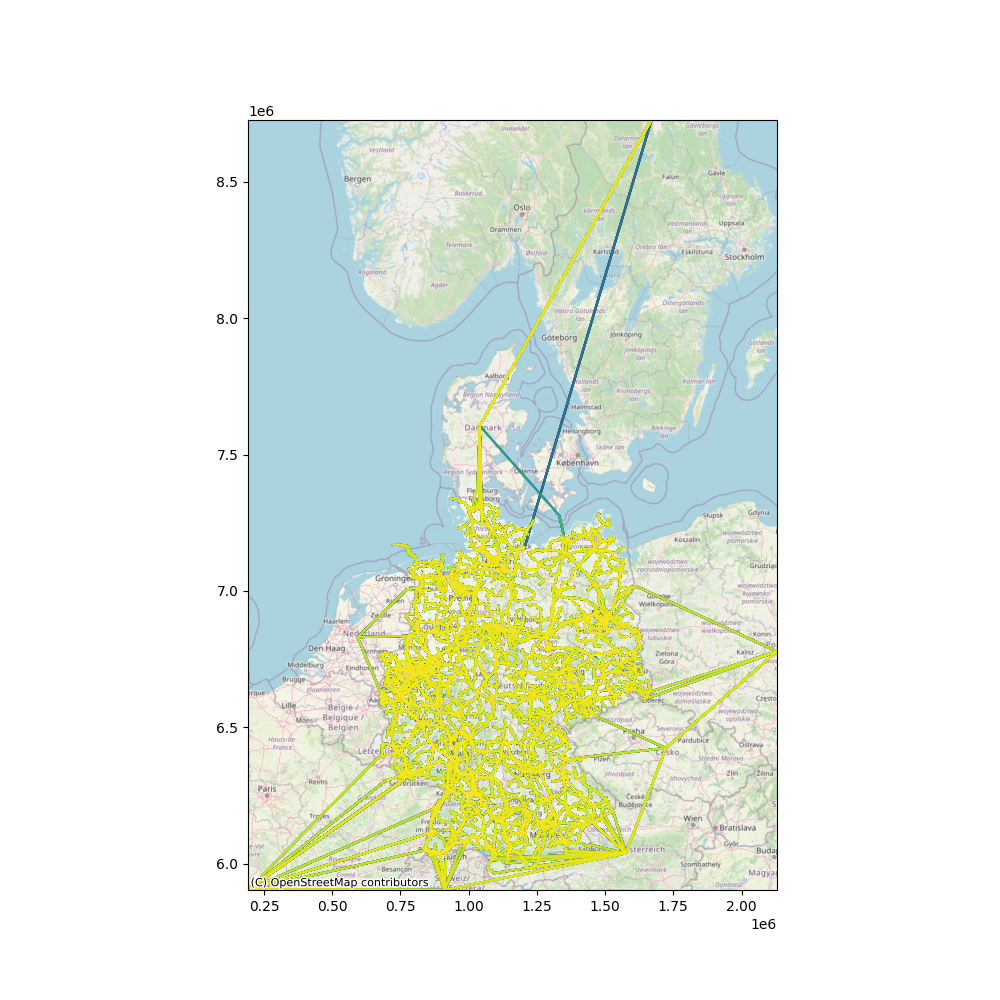
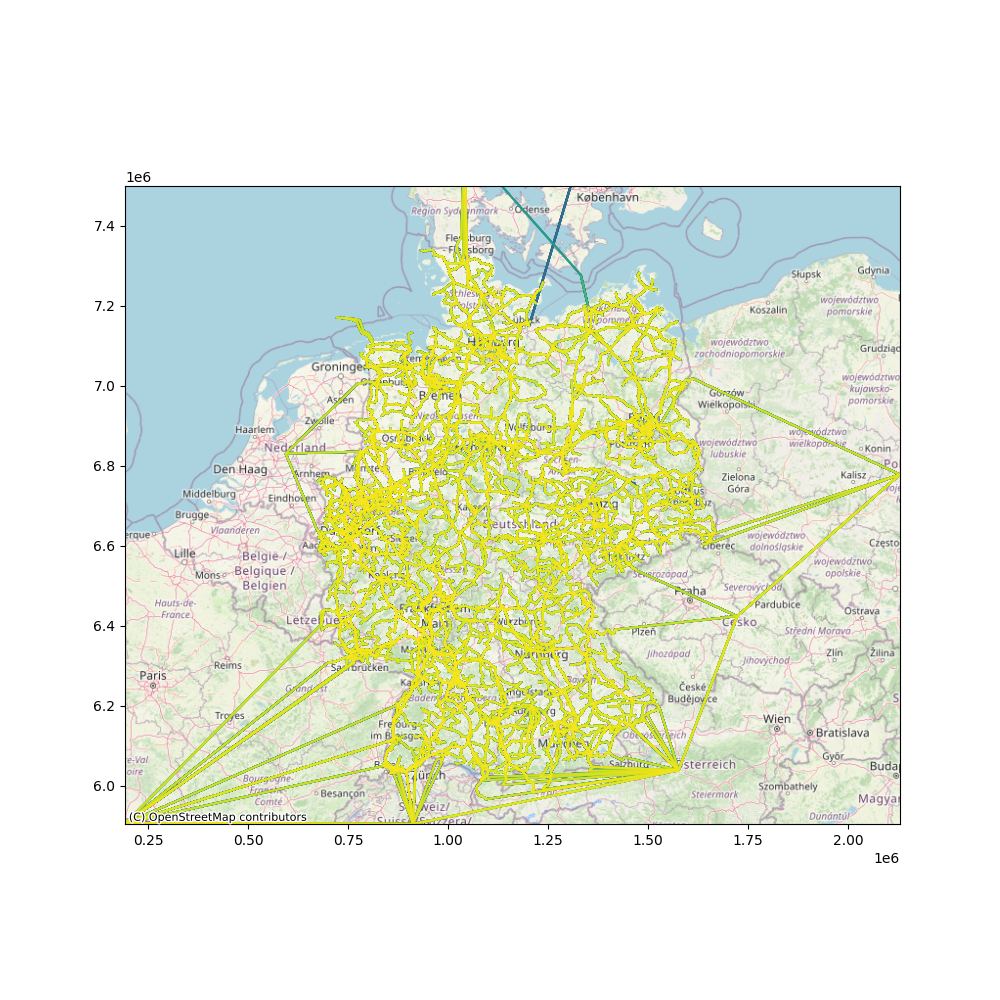
Improved presentation

diff --git a/presentation/termin1/Präsentation.tex b/presentation/termin1/Präsentation.tex
@@ -94,7 +94,6 @@
 			
 	%---------------------------------
 	
-	
 	\begin{frame}
 		\frametitle{Erste Schritte}
 		\vspace*{0mm}
@@ -167,6 +166,7 @@
 					\item großes Problem: Keine gute Datensätze für Trassen zwischen Bundesländern
 					\item Idee: Kleinskaliger mit SMARD-Daten für die vier Regelzonen arbeiten
 					\item auch nicht wirklich gut: Zu Verbrauch/Produktion gibt es gute Daten, aber die Übertragung zwischen Netzen wird nicht abgebildet
+					\item Datenportal zur aktuellen FfE-Studie nicht verfügbar
 				\end{itemize}
 			\end{minipage}
 			\hfill
@@ -208,17 +208,17 @@
 	\begin{frame}
 		\frametitle{Daten: Generierung}
 		\begin{itemize}
-			\item OpenStreetMap wird quasi von allen für Erstellung von Stromnetzdaten genutzt
-			\item Zeitreihen: ...
+			\item OpenStreetMap wird häufig für Erstellung von Stromnetzdaten genutzt
+			\item Nachfragezeitreihe mittels Standardlastprofil erstellt
 			\item Zeitbezug für Version nicht ganz klar, aber wohl aktuell
 			\item man kann wohl komplette Datenbank über GitHub nachbauen, aber sehr aufwändig
-			\item genutzt wird in der Datenbank PostgreSQL, wir werden wahrscheinlich ein Format wie HDF5 nutzen.
+			\item genutzt wird in der Datenbank PostgreSQL, wir werden wahrscheinlich ein Format wie HDF5 nutzen, falls Zeitreihen angewendet werden
 		\end{itemize}
 	\end{frame}
 
 	\begin{frame}
 		\frametitle{Beispielplot: Stromtrassen}
-		\vspace*{-1.8cm}
+		\vspace*{-1.3cm}
 		\hspace*{6cm}
 		\includegraphics[height=10cm]{./line.png}
 	\end{frame}
@@ -239,12 +239,17 @@
 		\vspace*{6mm}
 		\begin{itemize}
 			\item erste praktische Versuche mit PyPSA bzw. Lastflussberechnungen
-			\item weiter Daten suchen: Gasnetz, Bauvorhaben Wasserstoff
-			\item Aktuelle Daten liefern nur aktuelle Generatoren/Speicher
+			\item weitere Daten suchen:
+			\begin{itemize}
+				\item Gasnetz (eventuell über entsog transparency platform),
+				\item Bauvorhaben Wasserstoff
+			\end{itemize}
+			\item Kostenmodell aufstellen
+			\item Unsere Stromdaten liefern verschiedene Szenarien zur Energiewende:
 			
-			Was ist welche Technologie? Was ist mit Energiewende?
+			Vielleicht reicht das für Erzeugung schon aus? 
 			\item Wie genau funktioniert Import/Export?
-			\item Stahlindustrie betrachten
+			% \item Stahlindustrie betrachten
 		\end{itemize}
 			
 		

diff --git a/openenergy.py b/openenergy.py
@@ -136,7 +136,8 @@ def plot_df(df):
     # Set the extent of the plot to the bounds of your geometries
     minx, miny, maxx, maxy = gdf.total_bounds
     ax.set_xlim(minx, maxx)
-    ax.set_ylim(miny, maxy)
+    print(maxy)
+    ax.set_ylim(miny, 7.5 * 1e6) # maxy
 
     # Add OSM basemap
     ctx.add_basemap(ax, source=ctx.providers.OpenStreetMap.Mapnik)
